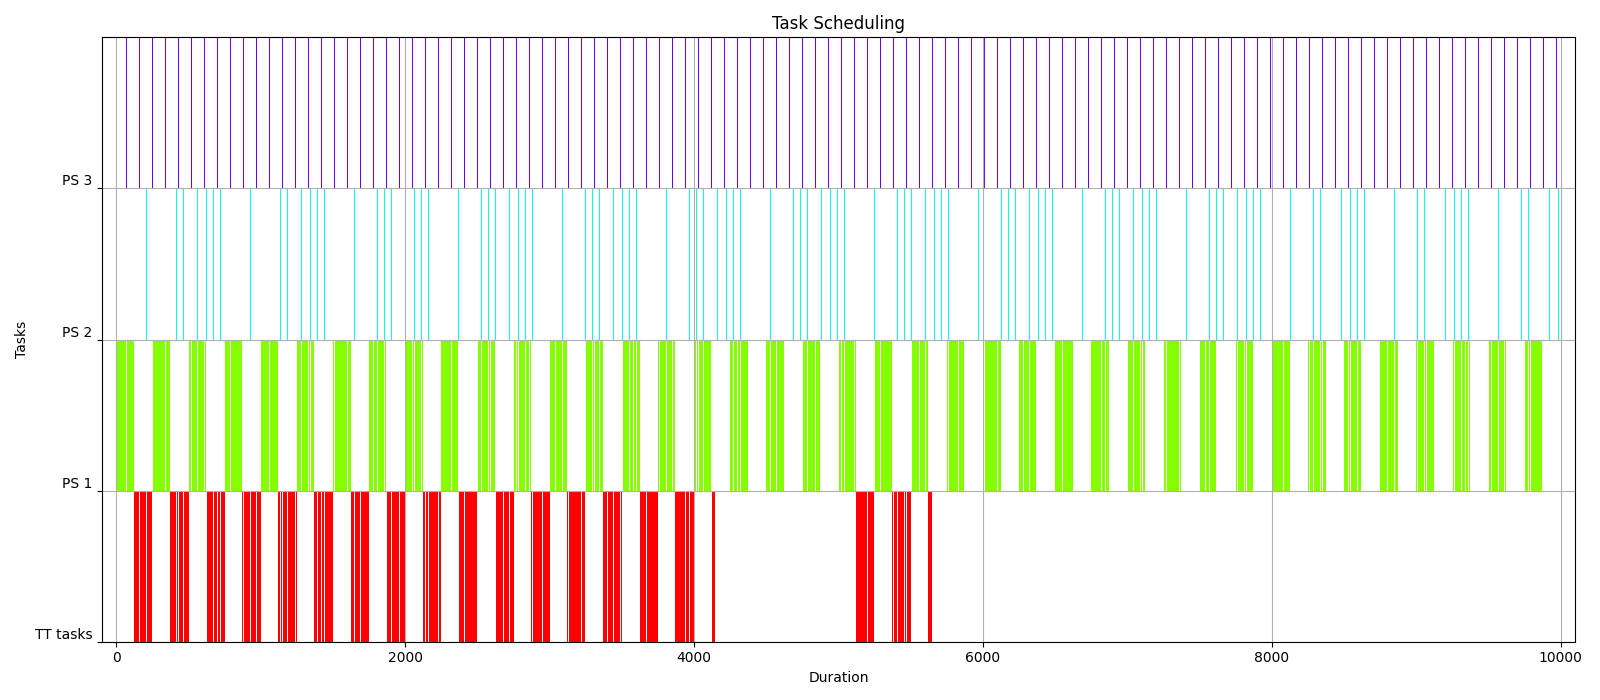
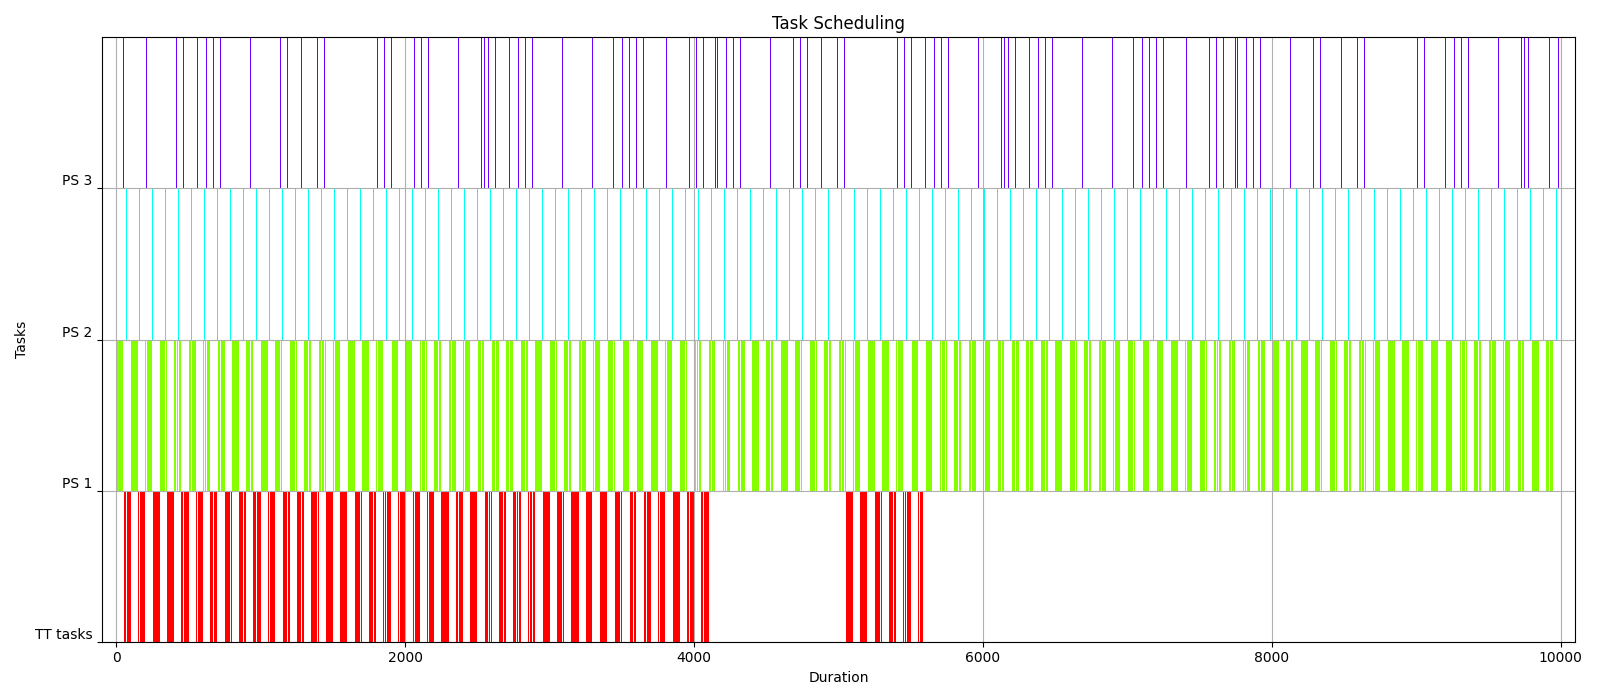
GA

Changed region(s): [[0.0625, 0.06, 0.9688, 0.93]]

diff --git a/libraries/optimizers.py b/libraries/optimizers.py
@@ -1,14 +1,24 @@
+import itertools
+import random
+import math
+import logging
+import numpy as np
+import matplotlib.pyplot as plt
+from sympy import divisors
+from math import lcm
+import multiprocess as mp
+
 from libraries.algorithms import EDF, EDP
 import libraries.dataloader as dataloader
 from libraries.tasks import PollingServer
-import random
-import numpy as np
-from sympy import divisors
-from math import lcm
-import itertools
+from libraries.graphplot import plotTTtask
+from tqdm import tqdm 
+
+logging.basicConfig()
+logging.getLogger().setLevel(logging.ERROR)  # DEBUG
 
 class Optimizer:
-    def __init__(self, TTtasks, ETtasks, maxiter=1000, toll=0.01):
+    def __init__(self, TTtasks, ETtasks, maxiter=100, toll=0.1):
         # Tasks
         self.TTtasks = TTtasks
         self.ETtasks = ETtasks
@@ -93,12 +103,269 @@ class Optimizer:
             #update iteration counter
             self.currIter += 1
 
+class SimulatedAnnealing(Optimizer):
+    def __init__(self, TTtasks, ETtasks, maxiter=1000, toll=0.01, iterationPerTemp=100, initialTemp=0.1, finalTemp=0.0001, tempReduction="geometric", alpha=0.5, beta=5):
+        super().__init__(TTtasks, ETtasks, maxiter, toll)
+
+        self.datalog = {
+            "bins": [],
+            "costs": [],
+            "accepted_bins": []
+        }
+
+        self.currTemp = initialTemp
+        self.finalTemp = finalTemp
+        self.currIterationPerTemp = iterationPerTemp
+        self.alpha = alpha
+        self.beta = beta
+
+        self.decrementRule = {"linear": self.linearTempReduction, # t = t - a
+                              "geometric": self.geometricTempReduction,  # t = t * a
+                              "slowDecrease": self.slowDecreaseTempReduction}[tempReduction] # t = t / 1 + Bt
+
+    def linearTempReduction(self):
+        self.currTemp -= self.alpha
+
+    def geometricTempReduction(self):
+        self.currTemp *= self.alpha
+
+    def slowDecreaseTempReduction(self):
+        self.currTemp = self.currTemp / (1 + self.beta * self.currTemp)
+
+    def plotTemperature(self):
+        iterations = list(range(int(self.maxIter/self.currIterationPerTemp)+1))
+        temperatures = [self.currTemp*self.alpha**i for i in iterations]
+        differences = [0.001, 0.01, 0.1, 1.0]
+        for d in differences:
+            metropolis = [np.exp(-d/t) for t in temperatures]
+            # plot iterations vs metropolis
+            label = 'diff=%.3f' % d
+            plt.plot(iterations, metropolis, marker='x', label=label)
+        # inalize plot
+        plt.xlabel('Iteration')
+        plt.ylabel('Metropolis Criterion')
+        #plt.ylim((0.0001, 1))
+        #plt.yscale("log")
+        plt.grid()
+        plt.legend()
+        plt.show()
+
+    def plotCost(self):
+        fig, ax = plt.subplots()
+        #ax.plot(self.datalog["bins"], self.datalog["cost"])
+        ax.plot(self.datalog["accepted_bins"], [self.datalog["costs"][i] for i in self.datalog["accepted_bins"]])#, color="red", marker="x")
+        ax.set_ylim((0, 3))
+        ax.grid()
+        ax.set_xlabel("Iterations")
+        ax.set_ylabel("Cost")
+        ax.set_title("Cost of accepted solutions")
+        plt.show()
+
+    def acceptance(self, cost):
+        if cost > 0:
+            # print("the solution could be accepted with prob: {:.3f}".format(math.exp(-cost/self.currTemp)))
+            return random.random() < math.exp(-cost / self.currTemp)
+        return False
+
+    def neighborOperator(self, center):
+        def getrandomneighbor():
+            new_center = []
+            for ps in center:
+                new_period = self.period_divisors[self.clamp(self.period_divisors.index(ps.period) + random.choice([-1, 0, 1]), 0, len(self.period_divisors)-1)]
+                new_duration = self.clamp(ps.duration + random.randint(-10, 10) * 10, 1, new_period)
+                new_deadline = self.clamp(ps.deadline + random.randint(-10, 10) * 10, new_duration, new_period)
+                new_center.append(PollingServer(ps.name, new_duration, new_period, new_deadline, ps.tasks, ps.separation))
+            return new_center
+
+        neighbor = getrandomneighbor()
+        #while not self.isSatisfyingConstraints(neighbor):
+        #    neighbor = getrandomneighbor()
+        return neighbor
+
+    def run(self, pbar=None):
+        while not self.isTerminationCriteriaMet():
+            #print("Temperature: {}, prob: {}".format(self.currTemp,  math.exp(-0.1 / self.currTemp)))
+            for i in range(self.currIterationPerTemp):
+                # pick a random neighbor
+                newSolution = self.neighborOperator(self.solution)
+
+                # get the cost between the two solutions
+                newCost = self.computeCost(newSolution)
+
+                self.datalog["bins"].append(self.currIter)
+                self.datalog["costs"].append(newCost)
+
+                # if the new solution is better, accept it
+                if newCost - self.currCost < 0 or self.acceptance(newCost - self.currCost):
+                    #print("accepted sol. {}".format(self.isValidNeighbor(newSolution)))
+                    self.solution = newSolution
+                    self.currCost = newCost
+                    self.datalog["accepted_bins"].append(self.currIter)
+
+                # update progress bar
+                if pbar:
+                    pbar()
+
+                #update iteration counter
+                self.currIter += 1
+
+            self.decrementRule()
+
+class GeneticAlgorithm(Optimizer):
+    def __init__(self, TTtasks, ETtasks, maxiter=100, toll=0.01, pop_size=10, p_cross=0.8, p_mut=0.2):
+        super().__init__(TTtasks, ETtasks, maxiter, toll)
+
+        self.popSize = pop_size
+        self.pCross = p_cross
+        self.pMut = p_mut
+
+    def initialPopulation(self):
+        pop = []
+        for __ in range(self.popSize):
+            pop.append(self.initializeSolution())
+        return pop
+
+    def evaluatePopulation(self, population, weights=[0.5, 0.5]):
+        costs_list = []
+        for solution in population:
+            costs_list.append(self.computeCost(solution, weights))
+        return costs_list
+
+    def paramsToList(self, solution):
+        params = []
+        for ps in solution:
+            params.append(ps.duration)
+            params.append(ps.period)
+            params.append(ps.deadline)
+        return params
+
+    def paramsFromList(self, params, solution_old):
+        solution = []
+        for i in range(0, len(params), 3):
+            solution.append(PollingServer(solution_old[i//3].name, params[i], params[i+1], params[i+2], solution_old[i//3].tasks, solution_old[i//3].separation))
+        return solution
+
+    # crossover two parents to create two children
+    def crossover(self, p1, p2):
+        # children are copies of parents by default
+        # check for recombination
+        if np.random.rand() > self.pCross:
+            return p1, p2
+
+        p1_list, p2_list = self.paramsToList(p1), self.paramsToList(p2)
+
+        pt = random.randint(1, len(p1_list))
+        # perform crossover
+        c1 = p1_list[:pt] + p2_list[pt:]
+        c2 = p2_list[:pt] + p1_list[pt:]
+
+        c1, c2 = self.paramsFromList(c1, p1), self.paramsFromList(c2, p2)
+
+        return c1, c2
+
+    # mutation operator
+    def mutation(self, solution):
+        if np.random.rand() > self.pMut:
+            return solution
+
+        s_list = self.paramsToList(solution)
+        gene = random.randint(0, len(s_list)-1)
+
+        if gene%3 == 0: #its duration:
+            #print("duration", gene, gene%3, s_list)
+            s_list[gene] = self.clamp(s_list[gene] + random.randint(-10, 10) * 10, 1, s_list[gene+1])
+        elif gene%3 == 1: #its period
+            s_list[gene] = self.period_divisors[self.clamp(self.period_divisors.index(s_list[gene]) + random.choice([-1, 0, 1]), 0, len(self.period_divisors)-1)]
+        else: #is deadline
+            s_list[gene] = self.clamp(s_list[gene] + random.randint(-10, 10) * 10, s_list[gene-2], s_list[gene-1])
+        
+        new_solution = self.paramsFromList(s_list, solution)
+
+        return new_solution
+
+    # tournament selection
+    def selection(self , pop, scores, k=3):
+        ind = np.argpartition(-np.array(scores), -10)[-10:]
+        return [pop[idx] for idx in ind] 
+
+    def run(self):
+        pop = self.initialPopulation()
+        # keep track of best solution
+        # enumerate generations
+        while not self.isTerminationCriteriaMet():
+            # evaluate all candidates in the population
+            scores =  self.evaluatePopulation(pop)
+            # check for new best solution
+            newSolution = pop[np.argmin(scores)]
+            newCost = np.min(scores)
+
+            if newCost - self.currCost < 0:
+                    #print("accepted sol. {}".format(self.isValidNeighbor(newSolution)))
+                    self.solution = newSolution
+                    self.currCost = newCost
+
+            print(">%d, new best f(%s) = %.3f" % (self.currIter, newSolution, newCost))
+            # select parents
+            parent_list = self.selection(pop, scores)#[self.selection(pop, scores) for _ in range(self.n_pop)]
+            # create the next generation
+            children = list()
+            parent_list = list(itertools.permutations(parent_list, 2))
+            random.shuffle(parent_list)
+
+            for p1, p2 in parent_list[:50]:
+
+                # get selected parents in pairs
+                # crossover and mutation
+                for c in self.crossover(p1, p2):
+                    # mutation
+                    self.mutation(c)
+                    # store for next generation
+                    children.append(c)
+            # replace population
+            pop = children
+
+            self.currIter += 1
+
+
 if __name__ == "__main__":
     path = "./test_cases/taskset_small.csv"
     #path = "./test_cases/taskset__1643188013-a_0.1-b_0.1-n_30-m_20-d_unif-p_2000-q_4000-g_1000-t_5__0__tsk.csv"
     dl = dataloader.DataLoader(path)
     TT, ET = dl.loadFile()
 
+    """
     optim = Optimizer(TT, ET, 10)
     optim.run()
     optim.printSolution()
+
+    sa = SimulatedAnnealing(TT, ET, maxiter=1000)
+    #sa.plotTemperature()
+    sa.printSolution()
+
+    if False:
+        import cProfile, pstats
+        with cProfile.Profile() as pr:
+            with tqdm(total=sa.maxIter, desc="Iterations") as bar:  # progress bar
+                sa.run(bar.update)
+        pr = pstats.Stats(pr)
+        pr.sort_stats('cumulative').print_stats(10)
+    else:
+        with tqdm(total=sa.maxIter, desc="Iterations") as bar:
+            sa.run(bar.update)
+
+    schedulable_TT, timetable, wcrt_TT, __ = EDF(TT + sa.solution)
+    print(wcrt_TT)
+    for ps in sa.solution:
+        schedulable_ET, wcrt_ET, __ = EDP(ps)
+        print(wcrt_ET)
+
+    sa.printSolution()
+    sa.plotCost()
+
+    plotTTtask(TT + sa.solution, timetable, group_tt=True)
+    """
+
+    ga = GeneticAlgorithm(TT, ET, 10)
+    ga.run()
+    ga.printSolution()
+    print("all done")
